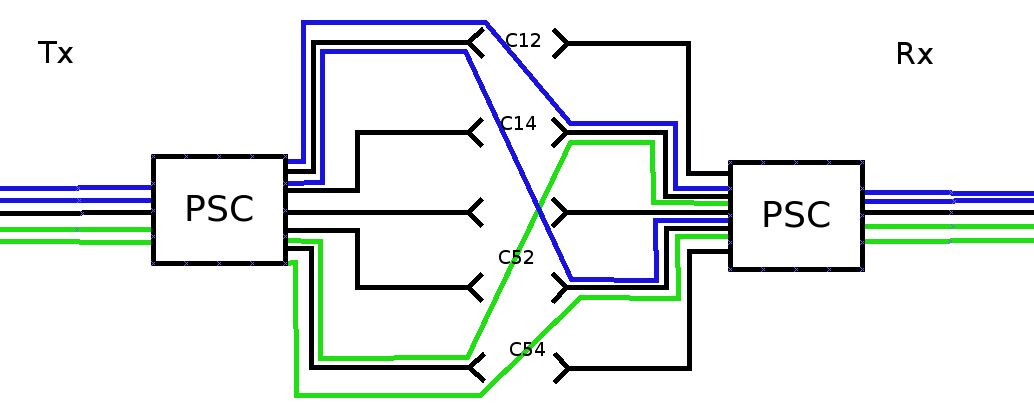
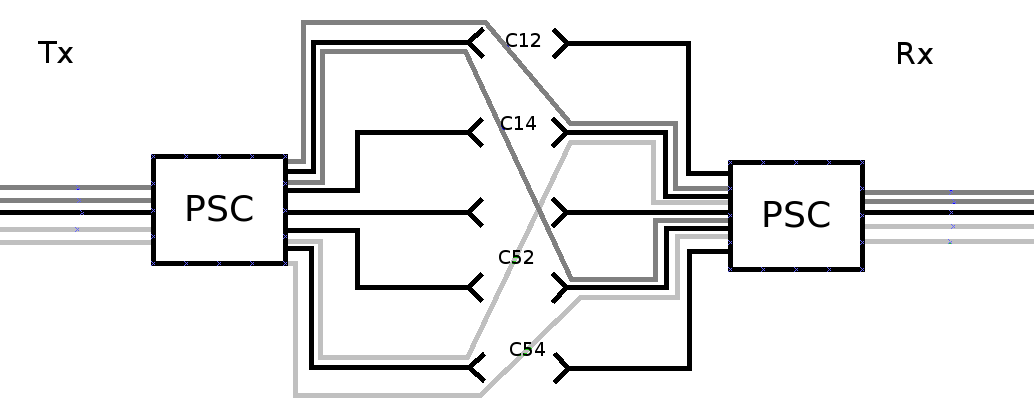
finished chapter5 corrections

diff --git a/written/thesis/capitulos/capitulo05.tex b/written/thesis/capitulos/capitulo05.tex
@@ -2,11 +2,12 @@
 \label{ch:modelizacion}
 \lhead{\emph{Modelización}}
 
+
 En este capítulo se utiliza toda la información descripta en los capítulos anteriores:
 \begin{itemize}
-	\item El modelo de la antena del capítulo \ref{ch:phasedArray}.
-	\item El modelo matemático y algorítmico de la calibración clásica \ref{ch:classicalCalibration}
-	\item El modelo matemático y algorítmico de la calibración por acoplamientos mutuos \ref{ch:mutualCalibration}
+	\item El modelo de la antena y de todos sus componentes en parámetros S descriptos en el capítulo \ref{ch:phasedArray}.
+	\item El modelo matemático y algorítmico de la calibración clásica \ref{ch:classicalCalibration}.
+	\item El modelo matemático y algorítmico de la calibración por acoplamientos mutuos \ref{ch:mutualCalibration}.
 \end{itemize}
 para definir las especificaciones del problema completo y el diseño de la arquitectura de software que cubra dichas especificaciones. 
 
@@ -84,40 +85,52 @@ vez son consideradas las especificaciones del problema.
 
 \section{Modelo de la antena}
 
-El modelo de antena está programado de tal forma que se lo pueda utilizar para simular una antena con parámetros de RF,
-la misma está conformada por los siguientes componentes: cables, psc, trms, desfasadores y elementos radiantes. 
+El modelo de antena está programado de tal forma que se lo pueda utilizar para simular una antena con parámetros de RF. La
+misma está conformada por los siguientes componentes: cables, PSCs, TRMs, desfasadores y elementos radiantes. Cada uno de estos
+está modelado con los conectores asociados que permiten interconectarlos entre sí. Además se modeliza las interacciones entre
+ellos por medio de los acoplamientos entre elementos radiantes. 
 
-La modelizaci\'on de los componentes en RF se realiza utilizando los par\'ametros S. En el apéndice \ref{AppendixC} se muestra 
-un ejemplo de estos archivos para una antena de dos elementos radiantes.
+Como se van a modelar desvíos en el comportamiento de los distintos componentes de la antena debido a diversos factores, en
+algunos casos se utilizará la metodología montecarlo para estudiar el comportamiento de los calibradores.
 
 Como es necesario realizar ensayos de montecarlo utilizando distintos tipos de calibraciones ante una misma configuración y 
-comportamiento de antena, se optó por guardar en disco dicha información utilizando archivos json. En los cuales se guarda la
-configuración y propiedades físicas tanto del panel como de la RFDN. Las propiedades del primer grupo son, simplemente, las 
-distancias entre todos los elementos. Las del segundo grupo corresponden a la matriz de parámetros S y la interconexión entre 
-componentes. En el anexo \ref{AppendixC} se puede observar un ejemplo de estos archivos para una antena con dos elementos 
-radiantes.
+comportamiento de antena, dicha informacion debe persistir entre corrida y corrida, por lo tanto se optó por guardar en disco
+dicha información como archivos con formato json. En los cuales se guarda la configuración y propiedades físicas tanto del
+panel como de la RFDN. Las propiedades del primer grupo son las distancias entre todos los elementos. Las del segundo grupo
+corresponden a la matriz de parámetros S, desarrollado en el capítulo \ref{ch:phasedArray}, y la interconexión entre
+componentes. En el apéndice \ref{AppendixC} se muestra se muestra un ejemplo sencillo, para comprender como el modelo
+matemático se ha modelizado, en este caso para una antena muy básica de dos elementos radiantes. Tener en cuenta que la antena
+a modelizar tiene más de un orden de magnitud mayor de tamaño.
 
-Dado lo mencionado previamente, el simulador consta de dos etapas, la primera parte es la encargada de la modelización
-de la antena y sus componentes; y la segunda, de calibrar dicho modelo. La figura \ref{fig:prog_inic} muestra de forma 
-simplificada el flujo de ejecuci\'on del programa.
+La aplicación se divide en tres etapas principales. La primera parte es la encargada de la modelización de la antena y sus
+componentes. La segunda contiene el copmortamiento de ambos modelos de calibración interna, los cuales se corresponden con las
+distintas estrategias de calibración de la UCC y la tercera consta de los visualizadores de resultados. La figura
+\ref{fig:prog_inic} muestra el flujo de ejecuci\'on del programa.
 
 \begin{figure}
  \centering
- \includegraphics[width=10cm]{gfx/FlujoEjecucion.png}
+ \includegraphics[width=11cm]{gfx/FlujoEjecucion.png}
  \caption{Flujo de ejecuci\'on del modelo de antena.}
  \label{fig:prog_inic}
 \end{figure}
 
+A continuación se describirán cada uno de los bloques del flujo de ejecución de la figura \ref{fig:prog_inic}
 
-\subsection{Generador de Antena}
+\subsection{Generador de Antena (AntennaGenerator)}
 
-En principio, una antena necesita que todos los caminos entre el punto donde se inyecta o recibe la se\~nal y los m\'odulos 
-radiantes sean iguales. Esta caracter\'istica es similar a la de un \'arbol balanceado. Por lo tanto, para definir la 
-estructura interna de la antena, se definen simplemente los elementos que conforman dicho \'arbol y, para determinar el orden 
-de armado de la antena, se utiliza una lista. El orden es descendiente, si se para en un elemento de la lista, los de la 
-izquierda son ascendientes y los de la derecha son descendientes. En la figura \ref{fig:2RMAntenna} se muestra la antena que 
-se construye teniendo como configuración: [\enquote*{cable1}, \enquote*{psc12}, \enquote*{cable2}, \enquote*{trm}, 
-\enquote*{circulator}, \enquote*{cable3}, \enquote*{rm}].
+La antena bajo estudio, con todos todos los controladores de fase y atenuacion (TRMs), en idéntica posicion, deben generar una
+onda plana saliente, transmitida, por los elementos radiantes. De idéntica forma, una onda plana recibida, con todos los
+receptores de los TRMs en igual posicion de fase y atenuacion, debe dar lugar a una señal coherente como resultado de la
+sumatoria. Por lo tanto, es necesario que todos los caminos entre el punto donde se inyecta o recibe la señal y los módulos 
+radiantes sean iguales. Esta característica es análoga a la de un árbol balanceado. 
+
+La estructura interna de la antena queda definida listando los elementos que la componen y el armado de la antena respeta el
+orden de aparición de elementos en la lista. Por ejemplo, si la lista es [\enquote*{cable1}, \enquote*{PSC12},
+\enquote*{cable2}], la RFDN tiene conectado al transmisor/receptor el componente \enquote*{cable1}, a su vez, el puerto común
+del \enquote*{PSC12} está conectado al mismo elemento y cada uno de sus otros puertos están conectados a un \enquote*{cable2}
+distinto. En la figura \ref{fig:2RMAntenna} se muestra la antena que se construye teniendo como configuración:
+[\enquote*{cable1}, \enquote*{psc12}, \enquote*{cable2}, \enquote*{trm}, \enquote*{circulator}, \enquote*{cable3},
+\enquote*{rm}].
 
 \begin{figure}
  \centering
@@ -126,15 +139,15 @@ se construye teniendo como configuración: [\enquote*{cable1}, \enquote*{psc12},
  \label{fig:2RMAntenna}
 \end{figure}
 
-Es necesario definir las características físicas de cada uno de los elementos que componen la antena. La tabla 
-\ref{tab:propertiesOfComponents} determina las propiedades de cada uno.
+Una vez obtenida los componentes que determinan la estructura de la antena, es necesario definir las características físicas de
+cada uno de ellos. La tabla \ref{tab:propertiesOfComponents} lista dichas las propiedades.
 
 \begin{table}[H]
   \footnotesize
   \centering
   \begin{tabular}{|c|c|}
 	\hline
-	\textbf{Componente de Antena} & \textbf{Cacarcterísticas físicas} \tabularnewline \hline 
+	\textbf{Componente de Antena} & \textbf{Carcterísticas físicas} \tabularnewline \hline 
 	\multirow{2}{*}{cable} &  attenuation [db] \tabularnewline \cline{2-2}
 	 & length [m] \tabularnewline \hline 
 	\multirow{3}{*}{TRM} & isDead \tabularnewline \cline{2-2}
@@ -144,14 +157,14 @@ Es necesario definir las características físicas de cada uno de los elementos 
 	circulator & \tabularnewline \hline 
 	RM & \tabularnewline \hline 
   \end{tabular}
-  \caption{Propiedades físicas de cada componente de una antena}
+  \caption{Parámetros de cada componente de una antena.}
   \label{tab:propertiesOfComponents}
 \end{table}
 
 Como es necesario que la representación de las propiedades mencionadas previamente sean representativas en radio frecuencia,
-se utilizan los parámetros S (como se menciona en el capítulo \ref{ch:phasedArray}). En la figura \ref{fig:creationPackage} 
-se muestra el diagrama de clases donde se puede observar que el creador de antena hace uso de los generadores de parámetros S 
-de cada componente.
+se utilizan los parámetros S (como se explicó y detalló en el capítulo \ref{ch:phasedArray}). En la figura \ref{fig:creationPackage} 
+se define un diagrama de clases, realizado ad hoc para esta aplicación donde se puede observar que la clase \enquote*{AntennaCreator}
+hace uso de los generadores de parámetros S de cada componente.
 
 \begin{figure}
  \centering
@@ -160,36 +173,39 @@ de cada componente.
  \label{fig:creationPackage}
 \end{figure}
 
-Con la RFDN, si bien está definida la cantidad de elementos radiantes, falta definir las dimensiones de la antena, 
-en otras palabras, la cantidad de paneles, la cantidad de elementos por panel y la separación, tanto horizontal como vertical,
-entre elementos. Los primeros se traducen a cantidad de columnas y filas de RMs. 
+Al determinar la RFDN, si bien está definida la cantidad de elementos radiantes, falta definir las dimensiones de la antena, 
+en otras palabras, la cantidad de columnas de ER, o de paneles, la cantidad de filas de ER, o la cantidad de elementos por
+panel, y la separación, tanto horizontal como vertical, entre elementos. 
 
 Como dicha información es redundante y posiblemente incompatible con la definición de la estructura interna de la antena, es 
 necesario un chequeo de compatibilidad. La figura \ref{fig:frontAntenna} muestra el frente de una antena que se construye 
-teniendo como configuración: "quantityRows": 1, "quantityColumns": 2, "verticalSeparation": 0.2 y "horizontalSeparation": 0.2.
+teniendo como configuración: \enquote*{quantityRows}: 1, \enquote*{quantityColumns}: 2, \enquote*{verticalSeparation}: 0.2 y
+\enquote*{horizontalSeparation}: 0.2.
 
 \begin{figure}
  \centering
- \includegraphics[width=4cm]{gfx/FrontAntenna2.png}
+ \includegraphics[width=3cm]{gfx/FrontAntenna2.png}
  \caption{Frente de antena de dos elementos radiantes.}
  \label{fig:frontAntenna}
 \end{figure}
 
-Una vez obtenida la estructura de la antena, es necesario determinar que componentes van a tener desvíos en el comportamiento 
-deseado. Para ello, se agrega una lista indicando los componentes con errores. Las incertidumbres tienen una distribución 
-gaussiana con media 0. El desvío estándar es configurable.
+Una vez creada la estructura completa de la antena, es necesario determinar que componentes van a tener desvíos en el
+comportamiento deseado. Para ello, se agrega una lista indicando los componentes con errores. Para las incertidumbres se define
+una distribucion gaussiana con media nula por las caracteristicas de los componentes representados. El desvío estándar es 
+configurable.
 
 Si se deseara realizar la calibración en modo completo, se deberían agregar errores de planitud de la antena. Con lo cual, 
 dichos desvíos se verían reflejados en el archivo de la configuración del panel de la antena. En la presente tesis solamente 
 se desarrolló el modelo con planitud ideal.
 
+
 \subsection{Calibrador}
 
 En la figura \ref{fig:modelPackage} se muestra el diagrama de clases del calibrador del modelo de antena. Se puede observar que
-la clase Antena, la cual pertenece al modelo, modeliza el comportamiento de todos sus componentes. Los calibradores pueden ser 
-el clásico o el de acoplamientos mutuos; el primero utiliza un creador de señales chirp y de códigos walsh, en cambio, el 
-segundo utiliza clases del tipo MatrixCalibratorBuilder, las cuales tienen distintas estrategias para generar ecuaciones en base
-a los lazos de calibración generados.
+la clase \enquote*{Antena}, la cual pertenece al modelo, modeliza el comportamiento de todos sus componentes. Los calibradores
+pueden ser el clásico o el de acoplamientos mutuos; el primero utiliza un creador de señales chirp y de códigos walsh, en
+cambio, el segundo utiliza clases del tipo MatrixCalibratorBuilder, las cuales tienen distintas estrategias para generar
+ecuaciones en base a los lazos de calibración generados.
 
 \begin{figure}
  \centering
@@ -223,30 +239,36 @@ S y se las obtiene realizando los siguientes pasos.
 		$S_{22}$ y $S_{21}$ con $S_{12}$.
 \end{enumerate}
 
-Para armar los lazos de calibración, se tiene que tener en cuenta distintos tipos de errores que pueden afectar a los mismos, 
-los cuales son: error de ganancia entre pulsos, error de ganancia de la chirp replica y error de fase del walsh. Todos estos 
-errores son tratados como gaussianos con media igual a cero.
 
-Desvíos de ganancia o fase entre pulsos: Esta incertidumbre se puede dar por inestabilidades en el oscilador local que genera 
-la señal a transmitir/calibrar la antena o incertidumbres de medición del receptor.
+Para armar los lazos de calibración, se tiene que tener en cuenta tanto los distintos tipos de errores que pueden afectar a los
+mismos, como el método de calibración utilizado. 
 
-Desvíos de ganancia o fase de la chirp replica: Esta incertidumbre se da por el cambio de comportamiento del lazo de 
-calibración donde se mide la chirp réplica, como dicho lazo está caracterizado, cuando cambia su valor de ganancia, esta 
-variación es atribuida a la chirp en vez de al lazo.
+\subsubsection{Casos de incertidumbres}
 
-Desvíos de fase del walsh: Esta incertidumbre aparece a causa de las diferencias de comportamiento real y configurado en los 
-desfasadores. 
+Los posibles errores que afectan directamente a los calibradores son: error de ganancia entre pulsos, error de ganancia de la
+chirp replica y error de fase del walsh. Todos estos errores son tratados como gaussianos con media cero. A continuación se
+describen cada uno de ellos:
+\begin{itemize}
+	\item Desvíos de ganancia o fase entre pulsos: Esta incertidumbre se puede dar por inestabilidades en el oscilador local que
+		genera la señal a transmitir/calibrar la antena o incertidumbres de medición del receptor.
+	\item Desvíos de ganancia o fase de la chirp replica: Esta incertidumbre se da por el cambio de comportamiento del lazo de
+		calibración donde se mide la chirp réplica, como dicho lazo está caracterizado, cuando cambia su valor de ganancia, esta
+		variación es atribuida a la chirp en vez de al lazo.
+	\item Desvíos de fase del walsh: Esta incertidumbre aparece a causa de las diferencias de comportamiento real y configurado en
+		los desfasadores. 
+\end{itemize}
 
-Los lazos de calibración dependen del método utilizado, los cuales se explicarán a continuación.
 
-\subsubsection{Calibración clásica}
-Para armar los datos a ser calibrados, todos los lazos (que abarcan hasta los módulos TR de la RFDN) se los multiplica con 
+\subsubsection{Calibración interna clásica}
+
+Para armar los datos a ser calibrados, todos los lazos (que abarcan hasta los TRMs de la RFDN) se los multiplica con 
 tantas chirps como el método indica, con los errores que deba tener (según configuración) y con la codificación del código 
 walsh siguiendo lo especificado en la sección \ref{ssc:classicalMethod}. El resultado es una matriz adquirida, la cual, para
 decodificar y obtener la ganancia/fase de un TRM, se lo debe multiplicar por un conjunto de chirp réplicas desfasadas según la 
 columna del código Walsh al que perteneciente el TRM. 
 
-\subsubsection{Calibración con acoplamientos mutuos}
+
+\subsubsection{Calibración interna por acoplamientos mutuos}
 
 Para obtener los distintos lazos de calibración se desarrollaron varias estrategias a saber: 
 
@@ -256,15 +278,16 @@ Para obtener los distintos lazos de calibración se desarrollaron varias estrate
         ecuación de Rx o Tx respectivamente. El método requiere que las distancias del elemento en común al resto sean iguales
 		para poder eliminar los acoplamientos mutuos y que los tres componentes estén alineados entre sí.
          
-		Para ejemplificar, en la figura \ref{fig:linealBuilder} se pueden observar dos pares de lazos de calibración. Si se resta el
-        azul con el verde, aprovechando que $C_{14} = C_{74}$, se obtiene una ecuación de la rama de transmisión; en cambio, 
-        si se resta el rojo con el amarillo, aprovechando que $C_{53} = C_{57}$, se obtiene una ecuación de la rama de 
-        recepción de la antena.
+		Para ejemplificar, en la figura \ref{fig:linealBuilder} se pueden observar dos pares de lazos de calibración. Si se
+		restan los grises oscuros, aprovechando que $C_{14} = C_{74}$, se obtiene una ecuación de la rama de transmisión; en
+		cambio, si se restan los grises claros, aprovechando que $C_{53} = C_{57}$, se obtiene una ecuación de la rama de
+		recepción de la antena.
 			
 		\begin{figure}[H]
 		 \centering
 		 \includegraphics[width=5cm]{gfx/linearBuilder.png}
-		 \caption{Estrategia LinearBuilder. Restar azul con verde para transmisión y restar rojo con amarillo para recepción.}
+		 \caption{Estrategia LinearBuilder. Obtiene la relación de lazos de calibración equidistantes con un elemento en común
+		 perteneciente a la línea de unión del resto de los ER.}
 		 \label{fig:linealBuilder}
 		\end{figure}
 
@@ -273,10 +296,10 @@ Para obtener los distintos lazos de calibración se desarrollaron varias estrate
         diferencia es que en vez de requerir que los tres elementos estén alineados, tienen que formar una L. En otras palabras,
         las rectas de unión deben ser perpendiculares entre sí.
 		
-        Para ejemplificar, en la figura \ref{fig:crossBuilder} se pueden observar dos pares de lazos de calibración. Si se resta el
-        azul con el verde, aprovechando que $C_{12} = C_{14}$, se obtiene una ecuación de la rama de recepción. En cambio, 
-        si se resta el rojo con el amarillo, aprovechando que $C_{53} = C_{59}$, se obtiene una ecuación de la rama de 
-        transmisión de la antena.
+        Para ejemplificar, en la figura \ref{fig:crossBuilder} se pueden observar dos pares de lazos de calibración. Si se
+		restan los grises claros, aprovechando que $C_{12} = C_{14}$, se obtiene una ecuación de la rama de recepción. En cambio, 
+        si se restan los grises oscuros, aprovechando que $C_{53} = C_{59}$, se obtiene una ecuación de la rama de transmisión de
+		la antena.
 
 		\begin{figure}[H]
 		 \centering
@@ -292,7 +315,8 @@ Para obtener los distintos lazos de calibración se desarrollaron varias estrate
 		análogo, se deben restar los lazos recibidos de uno con los del otro elemento.
 
         Para ejemplificar, la figura \ref{fig:tinyBuilder} muestra una antena de dos elementos en configuración vertical. En 
-        esta estrategia se restan los caminos azules con los verdes aprovechando que $C_{11} = C_{22}$ y que $C_{12} = C_{21}$.
+        esta estrategia se restan los caminos grises oscuros con los claros aprovechando que $C_{11} = C_{22}$ y que
+		$C_{12} = C_{21}$.
 		
 		\begin{figure}[H]
 		 \centering
@@ -309,14 +333,15 @@ Para obtener los distintos lazos de calibración se desarrollaron varias estrate
         utilizan las ramas de recepción de elementos que tengan las mismas distancias a los elementos transmisores.
         
         Para ejemplificar, se tiene una antena de 5 elementos en configuración vertical, como se muestra en la figura 
-		\ref{fig:doubleBuilder}. Esta estrategia resta los caminos azules con los verdes aprovechando que $C_{12} = C_{54}$ y que
-		$C_{14} = C_{52}$ (por simetría de la antena), dando como resultado dos veces la resta de las ramas de transmisión.
+		\ref{fig:doubleBuilder}. Esta estrategia resta los caminos grises oscuro con los claros aprovechando que
+		$C_{12} = C_{54}$ y que $C_{14} = C_{52}$ (por simetría de la antena), dando como resultado dos veces la resta de las
+		ramas de transmisión.
 		
 		\begin{figure}[H]
 		 \centering
 		 \includegraphics[width=10cm]{gfx/doubleBuilder.png}
-		 \caption{Estrategia DoubleBuilder. Al restar los lazos azules con los verdes queda solo la resta de la cadena en 
-         transmisión.}
+		 \caption{Estrategia DoubleBuilder. Al restar los lazos gris oscuro con los claros queda solamente la resta de la cadena
+			 en transmisión.}
 		 \label{fig:doubleBuilder}
 		\end{figure}
 
@@ -328,11 +353,11 @@ Para obtener los distintos lazos de calibración se desarrollaron varias estrate
 		TRM obtenido de la calibración clásica.
 \end{itemize}
 
-
 Una vez obtenidas todas las ecuaciones de las calibraciones, se procede a utilizar el método de cuadrados mínimos definido en 
 la sección \ref{sec:meanSquare}. Para la fase, hay que tener extremo cuidado por su naturaleza modular, por lo tanto, 
 previamente a la realización del cálculo de cuadrados mínimos, se acomoda el conjunto de resultados de acuerdo a la sección 
 \ref{ssc:mutualPhase}.
+
 
 \subsection{Configuraciones del sistema}
 
@@ -364,8 +389,9 @@ realizar los distintos ensayos.
 	Separación vertical & Es la separación vertical entre RMs \tabularnewline \hline 
 	Separación horizontal & Es la separación horizontal entre RMs \tabularnewline \hline 
 	Secuencia de componentes & Es la secuencia de componentes que conforma la RFDN, los mismos pueden ser: cables, psc, trm, circulador, rm \tabularnewline \hline 
-	Errores  & Son los componentes de la antena que pueden tener errores. Los mismos pueden ser: RMError, TRMError, CirculatorError, PSCError \tabularnewline \hline 
-	TRMs muertos & Es una lista que indica que trms están muertos en el panel de la antena. \tabularnewline \hline 
+	Errores  & Son los componentes de la antena que pueden tener errores. Los mismos pueden ser: CableError, RMError, TRMError, CirculatorError, PSCError 
+	\tabularnewline \hline 
+	TRMs muertos & Es una lista que indica que trms no responden a ningún estímulo externo o que poseen una ganancia casi nula. \tabularnewline \hline 
 	\multicolumn{2}{|c|}{\textbf{Componentes de Antena}} \\
 	\hline
 	$cable_i$ & Se pueden definir tantos cables como se deseen, los parámetros a definir son: attenuation [db], length [m], type = cable \tabularnewline \hline 
@@ -390,14 +416,28 @@ realizar los distintos ensayos.
   \label{tab:conf_modelo_antena}
 \end{center}
 
-A su vez, también se puede configurar que tipo de calibración se desea correr para poder obtener los resultados y se pueden 
-graficar tanto los diagramas de radiación obtenidos en algún corte en azimuth/rango o el conjunto de ganancias y fases con 
-respecto al valor ideal. La figura \ref{fig:visualPackage} muestra el diagrama de clases del visualizador.
+A su vez, también se puede configurar que tipo de calibración se desea correr para poder obtener los resultados.
+
+
+\subsection{Visualizador}
+
+La figura \ref{fig:visualPackage} muestra el diagrama de clases del visualizador. Con el mismo se pueden llegar a graficar tanto
+los diagramas de radiación obtenidos en un corte configurado, azimuth o rango, como el conjunto de ganancias y fases de cada ER
+con respecto al valor ideal. En el capítulo \ref{ch:simulations} se podrán apreciar los gráficos obtenidos de diferentes
+simulaciones.
 
 \begin{figure}[H]
  \centering
  \includegraphics[width=11cm]{gfx/visualPackage.png}
- \caption{Diagrama de clases de los visualizadores.}
+ \caption{Diagrama de clases del visualizador.}
  \label{fig:visualPackage}
 \end{figure}
+
+
+\section{Conclusiones}
+
+En este capítulo se introdujo la estructura de la aplicación que modela tanto el comportamiento de los componentes de la antena
+como las posibles estrategias a tomar por la UCC para calibrar la misma. Se definieron las posibles incertidumbres y errores que
+se pueden simular en las distintos componentes de la antena y las distintas estrategias para armar lazos de calibración para el 
+método de calibración interna por acoplamientos mutuos.
 
